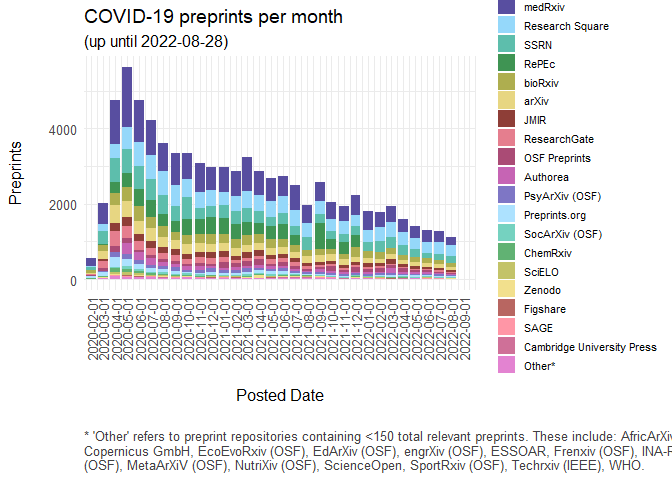
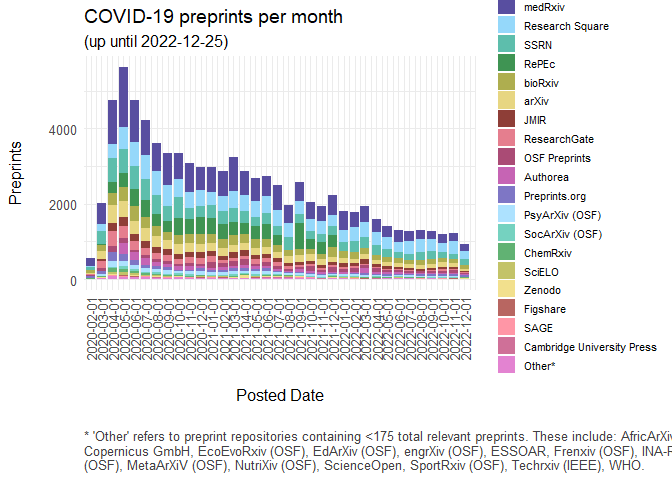
Update 2022-12-28 for preprints posted up until 2022-12-25

diff --git a/covid19_preprints.md b/covid19_preprints.md
@@ -45,6 +45,8 @@ Deduplicate final dataset to filter out records that are sampled twice.
 
 ``` r
 sample_date_until <- Sys.Date()
+#sample_data_until <- as.Date("2022-11-03")
+
 posted_date_until <-floor_date(sample_date_until, "week") #set to last Sunday prior to sample date
 
 sample_date_from <- fromJSON("data/metadata.json") %>%
@@ -87,6 +89,7 @@ cr_expected_results <- cr_types(types = "posted-content",
                                 filter = c(from_index_date = as.character(sample_date_from),
                                            until_index_date = as.character(sample_date_until))
                                 )$meta$total_results
+
 
 # Query posted content
 cr_posted_content <- cr_types_(types = "posted-content",
@@ -254,7 +257,7 @@ directly crawling the SSRN website (using the
 getSSRNPublicationDate <- function(doi) {
   
   #in case requests time out (http error 429), use rate limiting
-  Sys.sleep(2.5)
+  Sys.sleep(10)
   
   # Base URL for querying
   base_url <- "https://doi.org/"
@@ -277,9 +280,23 @@ getSSRNPublicationDate <- function(doi) {
 }
 
 # Create the final SSRN dataset. Deduplication of versions is done at a later stage.
+
 cr_ssrn_covid <- cr_ssrn_df %>%  
   # Filter COVID-19 related preprints. SSRN metadata does not contain abstracts
-  filter(str_detect(title, regex(search_string, ignore_case = TRUE))) %>%
+  filter(str_detect(title, regex(search_string, ignore_case = TRUE))) 
+
+#Filter on records not already in dataset (to reduce the number of records for which to crawl the SSRN website)
+
+covid_preprints_previous <- read_csv("data/covid19_preprints.csv") %>%
+  pull(identifier)
+
+cr_ssrn_covid <- cr_ssrn_covid %>%
+  filter(!identifier %in% covid_preprints_previous)
+  
+rm(covid_preprints_previous)
+
+#crawl SSRN to retrieve posted dates
+cr_ssrn_covid <- cr_ssrn_covid %>%
   # Retrieve 'real' posted dates from the SSRN website. Warning: slow
   mutate(posted_date = ymd(map_chr(identifier, getSSRNPublicationDate)),
          source = "SSRN") %>%
@@ -426,7 +443,7 @@ dc_returned_results <- dc_preprints %>%
   nrow()
 
 rm(dc_types, dc_clients, dc_years,
-   dc_types_cartesian, dc_clients_cartesian, dc_years_cartesian,
+   dc_types_cartesian, dc_clients_cartesian, dc_years_cartesian, cartesian,
    dc_parameters)
 ```
 
@@ -569,10 +586,6 @@ parseRepecPreprints <- function(item) {
 start_date <- sample_date_from
 end_date <- sample_date_until
 
-start_date <- as.Date("2021-11-01")
-end_date <- as.Date("2021-12-01")
-
-
 getRepecPreprints <- function(start_date, end_date) {
   d <- oai::list_records("http://oai.repec.org", 
                          from = start_date, 
@@ -623,6 +636,9 @@ covid_preprints_update <- covid_preprints_update %>%
          abstract = str_squish(abstract)) %>%
   mutate(title = str_remove_all(title, "<.*?>"),
          title = str_squish(title))
+
+
+rm(cr_covid, dc_covid, ar_covid, repec_covid) 
 ```
 
 \#Remove duplicate records (incl. versions) on same preprint server
@@ -672,6 +688,8 @@ covid_preprints <- covid_preprints %>%
 
 covid_preprints %>% 
   write_csv("data/covid19_preprints.csv")
+
+rm(covid_preprints_previous, covid_preprints_update)
 ```
 
 # Create metadata file (json file with sample date and release date)
@@ -715,7 +733,7 @@ palette <- c(pal_1, pal_2)
 
 ``` r
 # Minimum number of preprints to be included in graphs (otherwise too many categories/labels is confusing. Aim for 19 servers to include.)
-n_min <- 150
+n_min <- 175
 
 # Repositories with < min preprints
 other <- covid_preprints %>%
